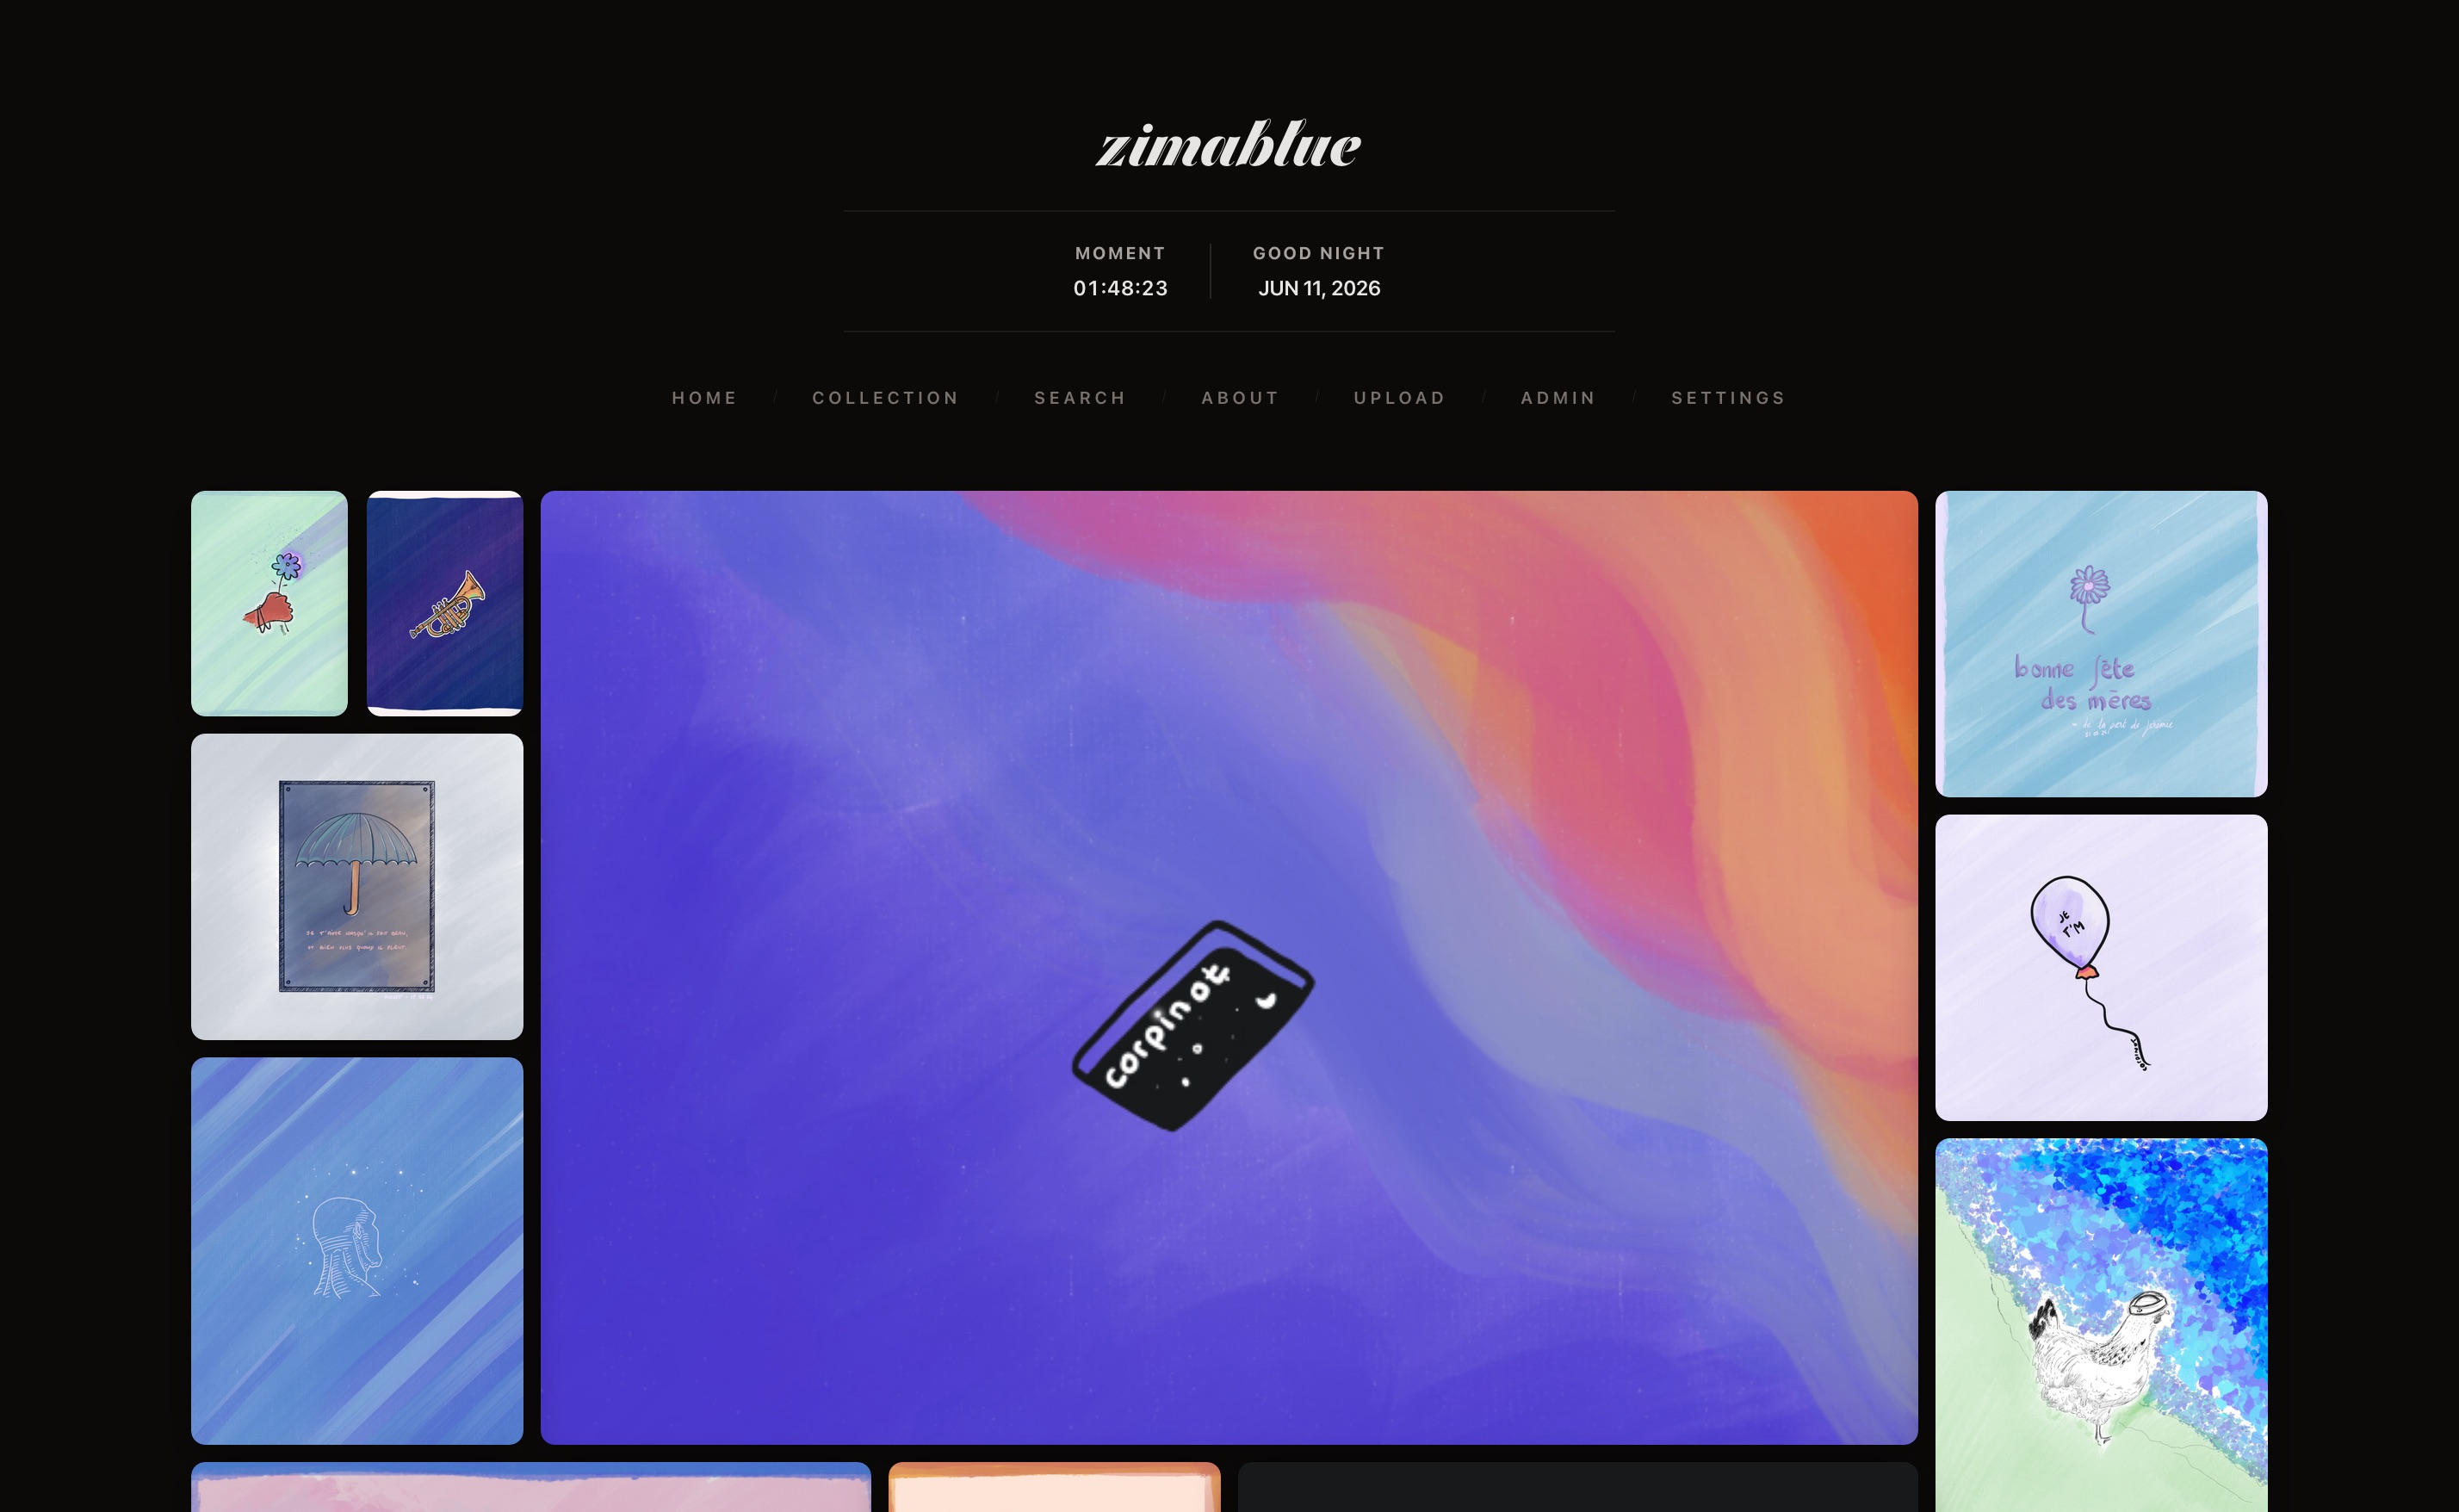
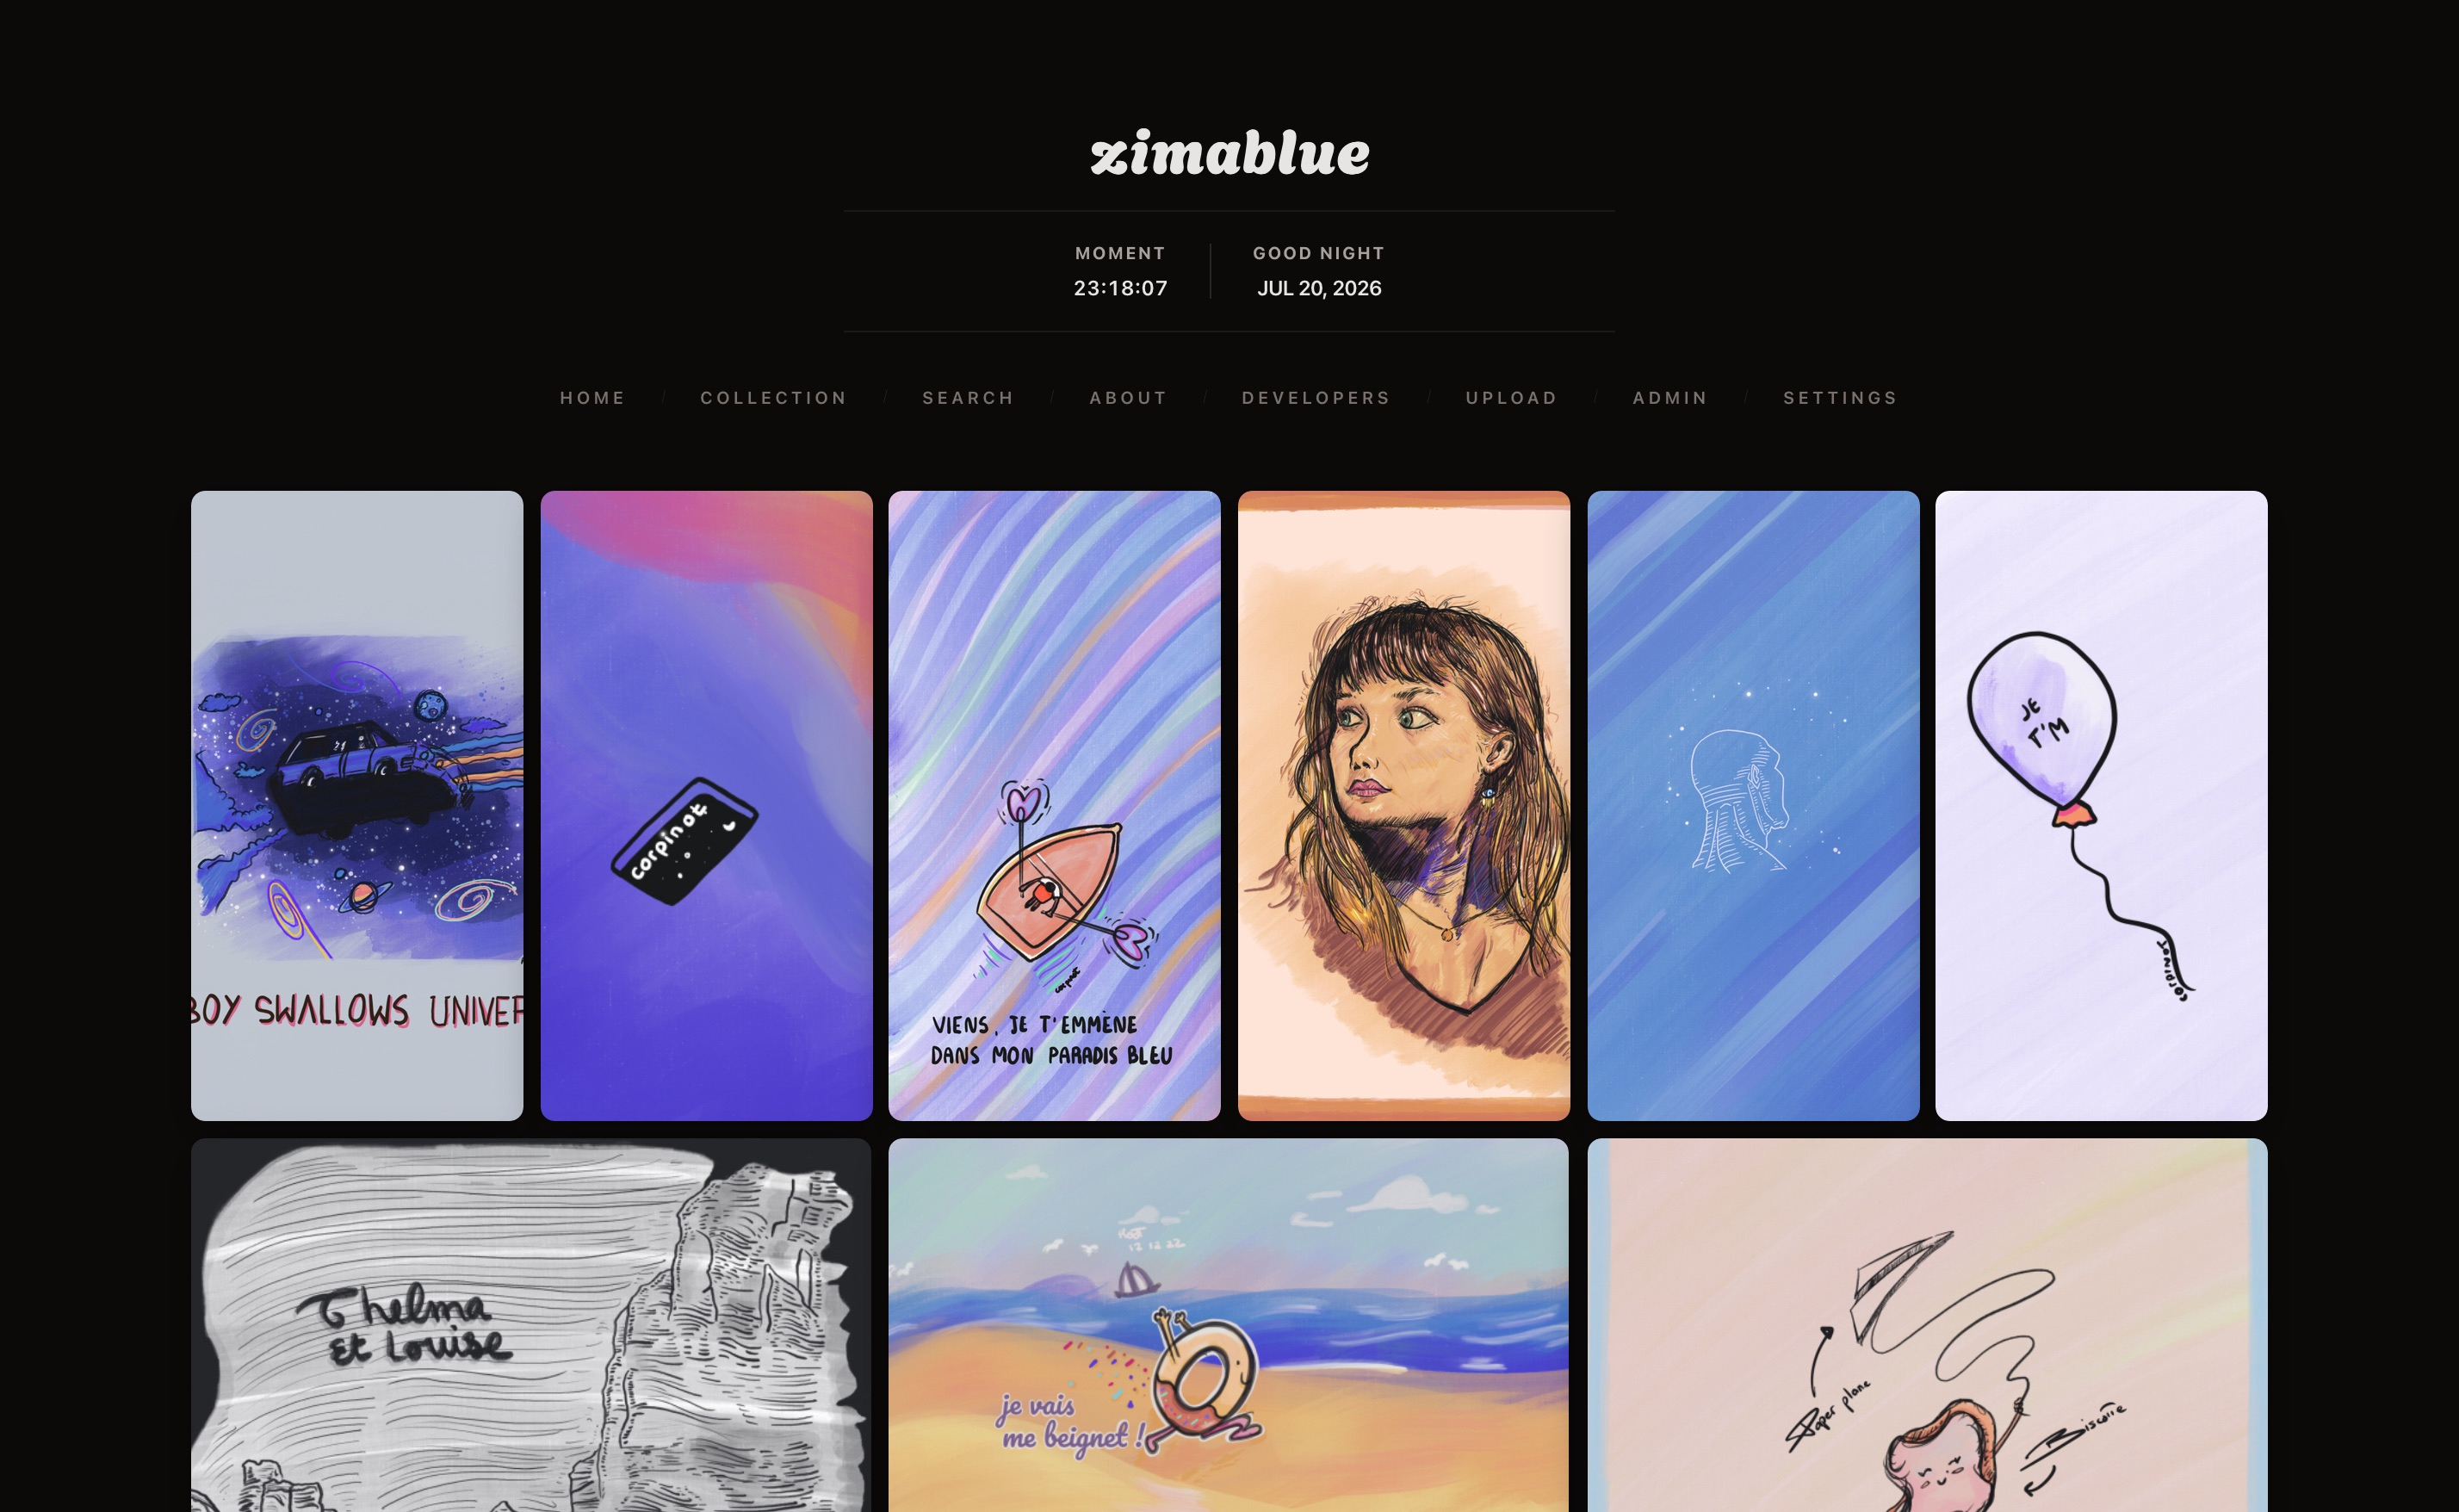
📚 feat(doc): update screenshot and README.md

diff --git a/README.md b/README.md
@@ -1,4 +1,4 @@
-![zima blue screenshot](./public/images/zimablue-home-desktop.light.2.jpeg)
+![zima blue screenshot](./public/images/zimablue-home-desktop.dark.1.jpeg)
 
 [Go to website ↗ 🌓](https://zimablue.cc/)
 